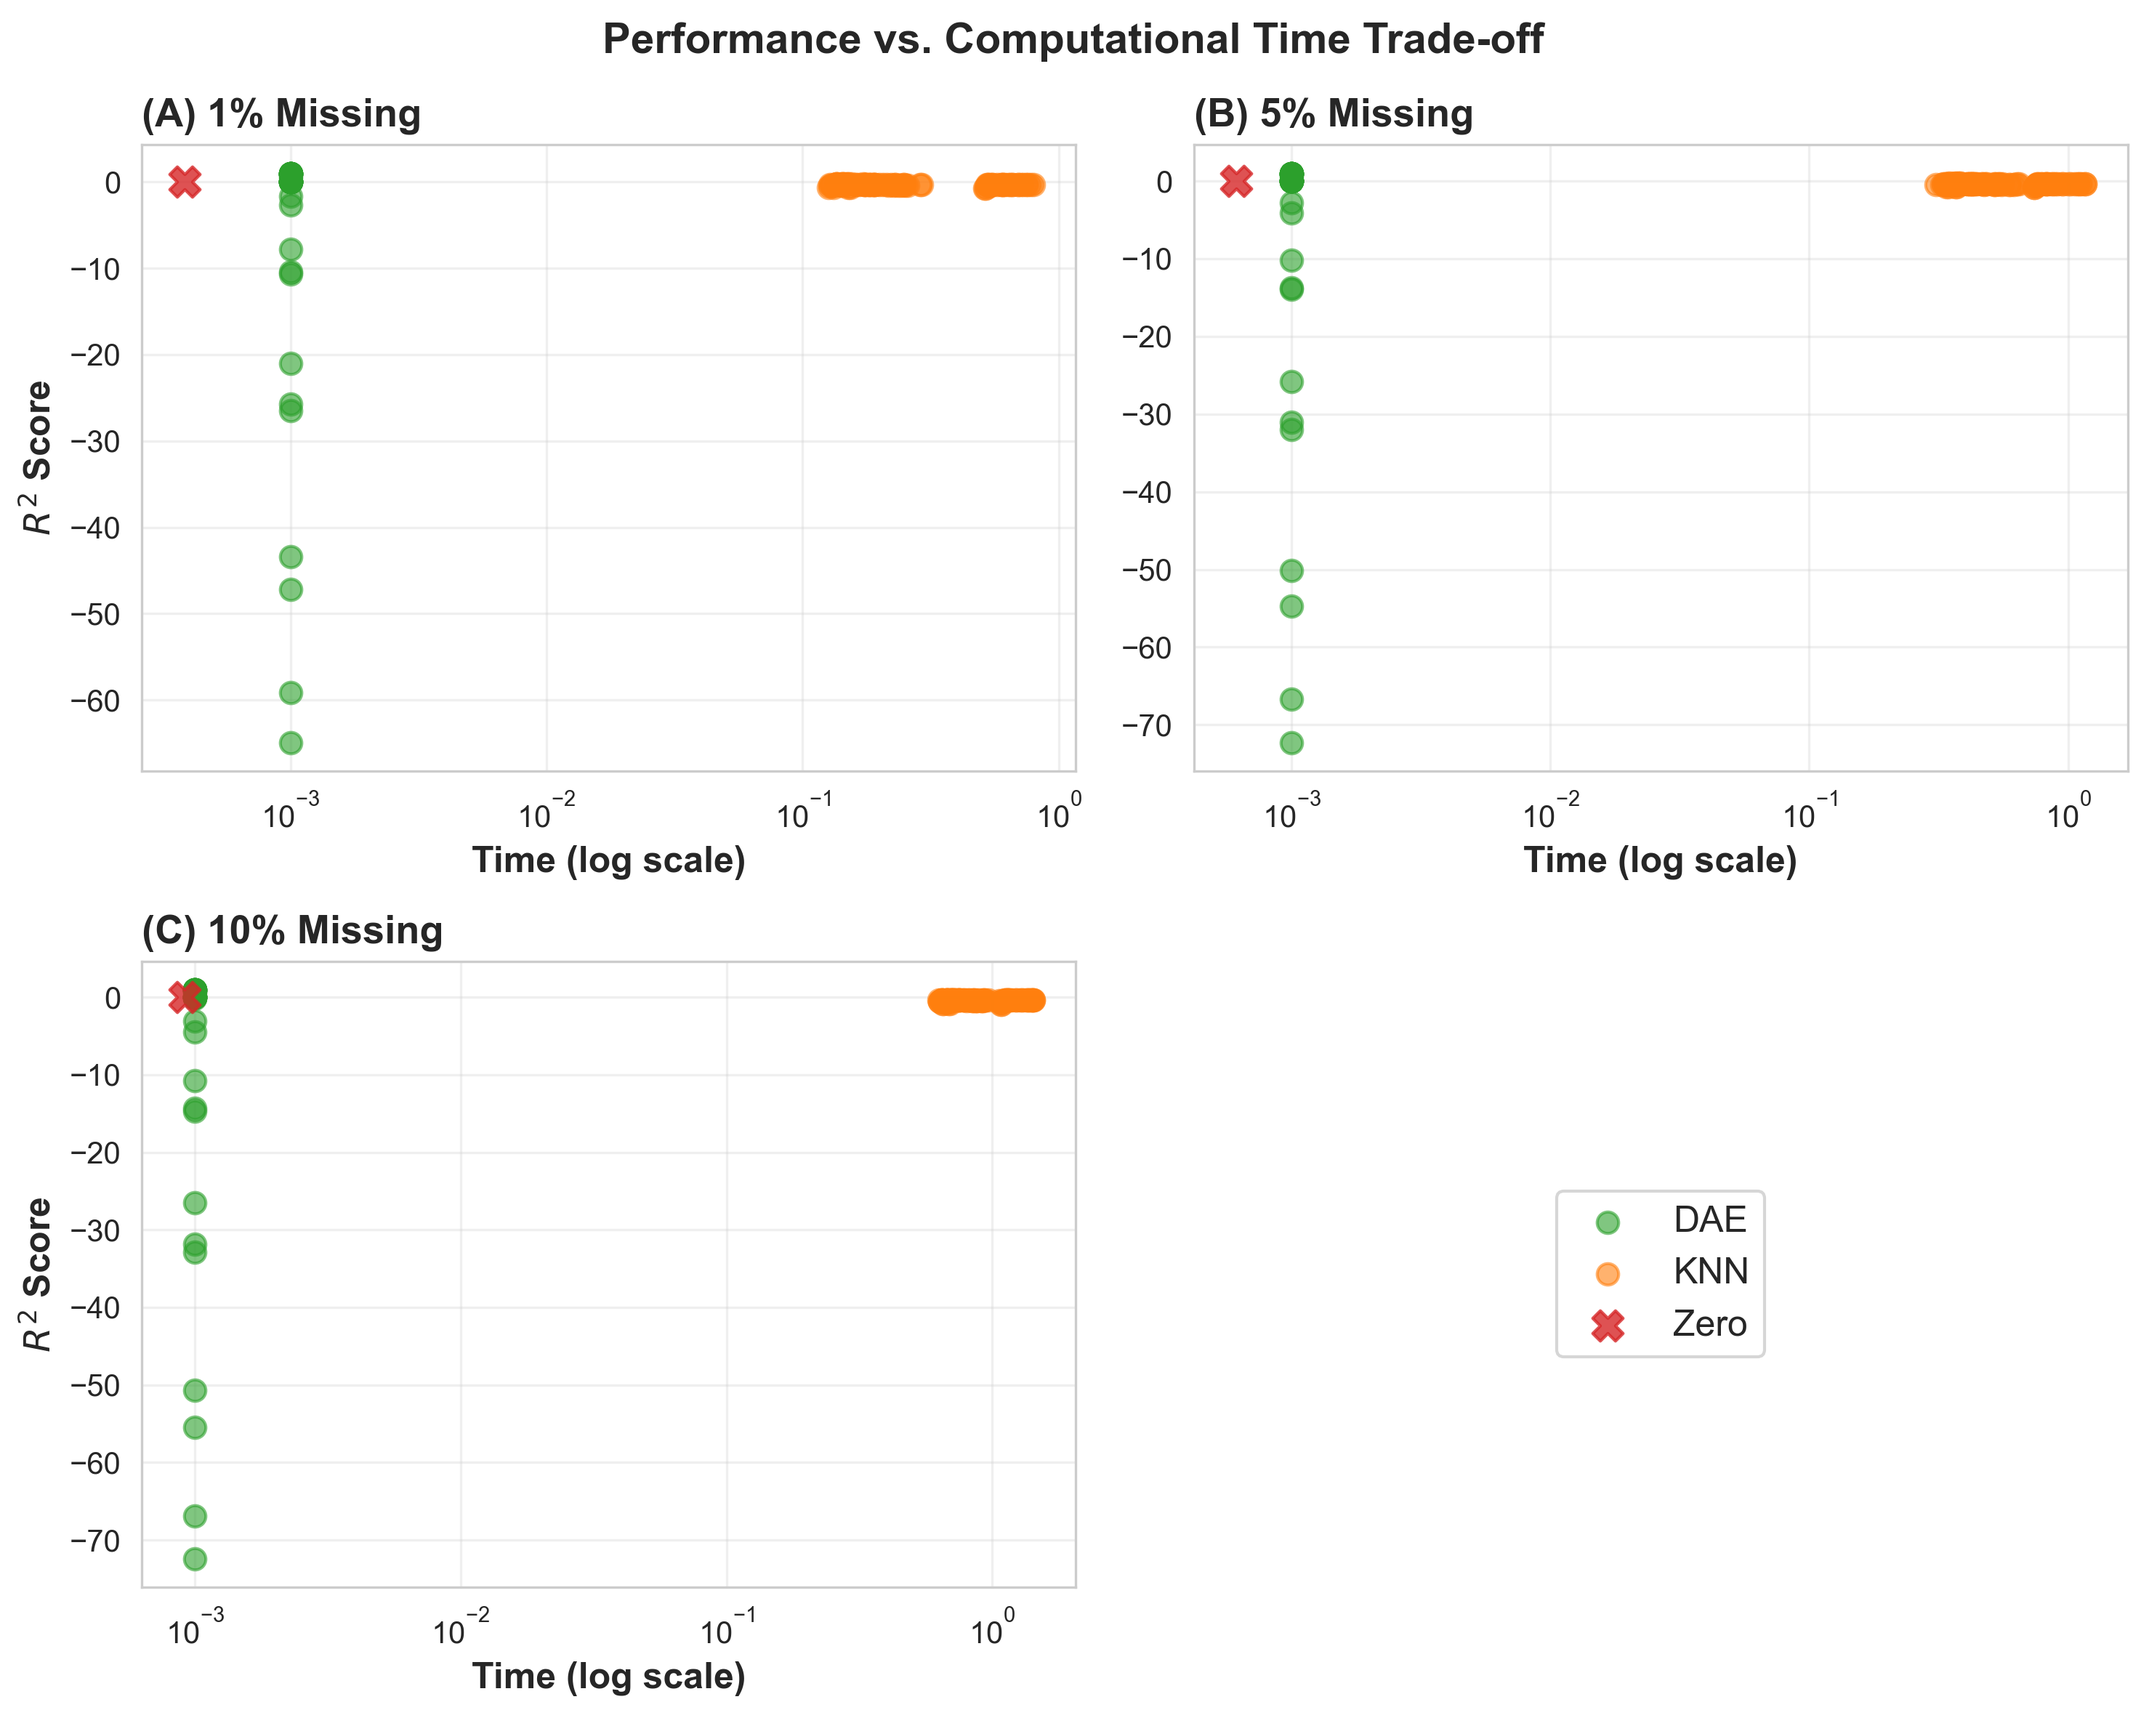
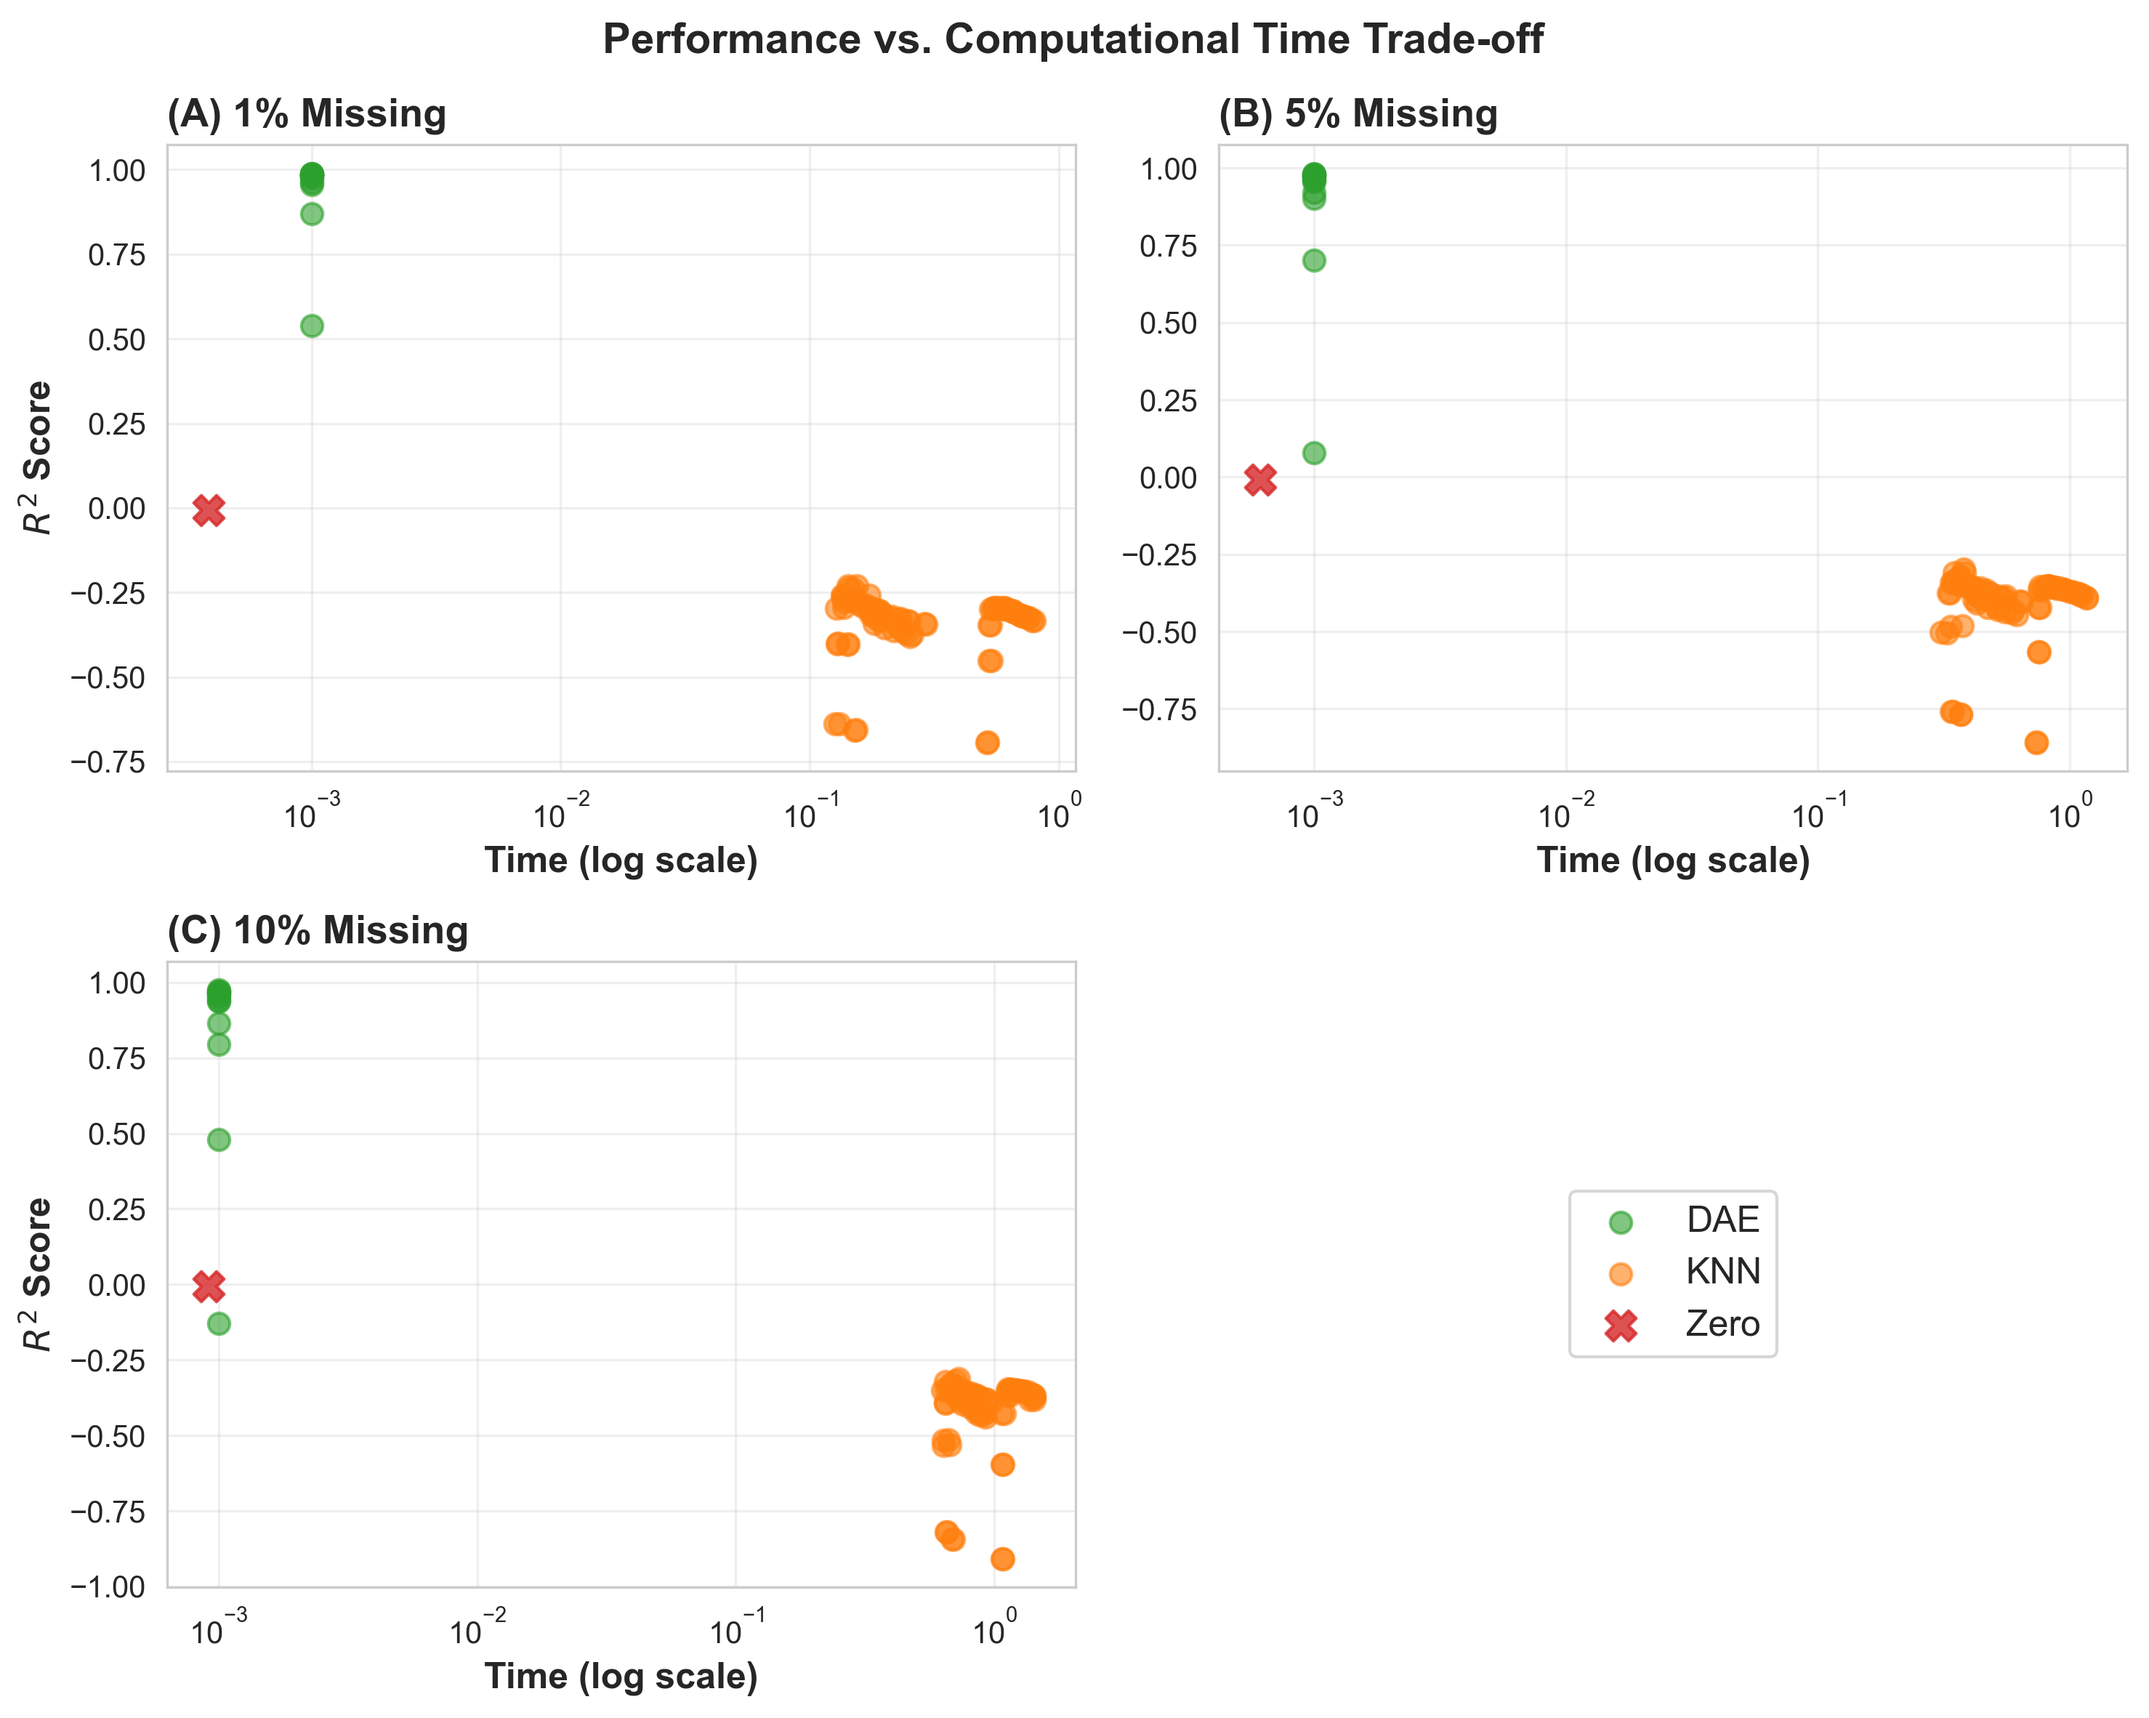
filter DAE results to include only learning rate 0.001 in performance vs time plot

diff --git a/src/comparison/plots.py b/src/comparison/plots.py
@@ -194,6 +194,11 @@ def plot_performance_vs_time(
 
             for config, metrics in results.items():
                 if f"miss{miss_rate}" in config and 'r2_mean' in metrics:
+                    # For DAE, only include learning rate 0.001 (10^-3)
+                    if method_name == 'DAE':
+                        if 'lr0.001' not in config:
+                            continue
+
                     r2_values.append(metrics['r2_mean'])
                     # Get imputation time (all methods now have this)
                     time_values.append(metrics.get('imputation_time_mean', 0.001))
